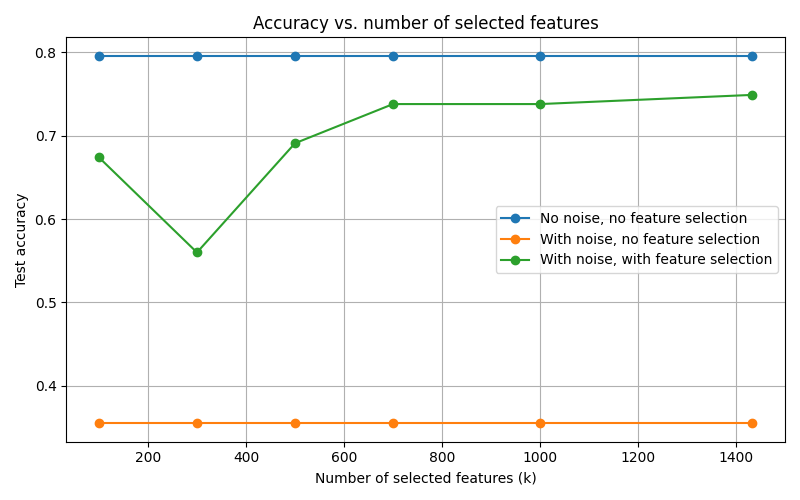
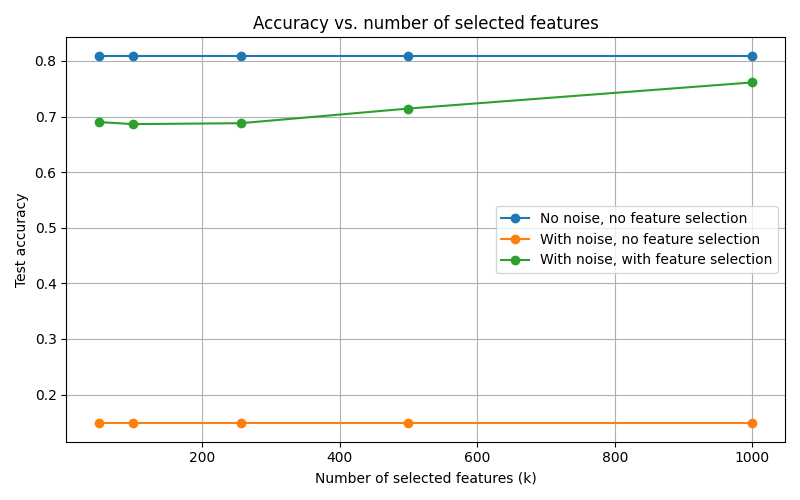
added accuracy vs k experiment and also standard deviations

diff --git a/src/main.py b/src/main.py
@@ -9,35 +9,51 @@ from experiments import (
 )
 from plotting import plot_method_accuracy_vs_noise, plot_accuracy_vs_k
 
-def save_results_to_csv(noise_type, noise_levels, results_by_method, filename):
+def save_results_to_csv(noise_type, noise_levels, results_by_method, std_by_method, filename):
     with open(filename, "w", newline="") as f:
         writer = csv.writer(f)
-        writer.writerow(["noise_type", "noise_level", "noise_percent", "method", "accuracy"])
+        writer.writerow(["noise_type", "noise_level", "noise_percent", "method", "accuracy_mean", "accuracy_std"])
 
         for method, accuracies in results_by_method.items():
-            for noise_level, accuracy in zip(noise_levels, accuracies):
-                writer.writerow([noise_type, noise_level, 100 * noise_level, method, accuracy])
+            for noise_level, accuracy, std in zip(noise_levels, accuracies, std_by_method[method]):
+                writer.writerow([noise_type, noise_level, 100 * noise_level, method, accuracy, std])
+
+def add_result(results_by_method, std_by_method, method, result):
+    mean, std = result
+    results_by_method[method].append(mean)
+    std_by_method[method].append(std)
 
 def run_noise_sweep(dataset, original_num_features, noise_levels, noise_type, seeds):
     results_by_method = {"No selection": [], "Raw l1": [], "Graph-aware l1": [], "Raw mutual_info": [], "Graph-aware mutual_info": [], "PCA": [], "Autoencoder": [], "Learned mask": []}
+    std_by_method = {"No selection": [], "Raw l1": [], "Graph-aware l1": [], "Raw mutual_info": [], "Graph-aware mutual_info": [], "PCA": [], "Autoencoder": [], "Learned mask": []}
 
-    if noise_type == "dense_junk":
-        k = original_num_features
-    else:
-        k = 500
+    k = 256
 
     for noise_ratio in noise_levels:
         print(f"Running noise_type={noise_type}, noise_ratio={noise_ratio}")
-        results_by_method["No selection"].append(run_no_selection_baseline_avg(dataset, noise_ratio=noise_ratio, noise_type=noise_type, seeds=seeds))
-        results_by_method["Raw l1"].append(run_preprocessing_selection_experiment_avg(dataset, noise_ratio=noise_ratio, noise_type=noise_type, k=k, selection_method="l1", graph_aware=False, seeds=seeds))
-        results_by_method["Graph-aware l1"].append(run_preprocessing_selection_experiment_avg(dataset, noise_ratio=noise_ratio, noise_type=noise_type, k=k, selection_method="l1", graph_aware=True, seeds=seeds))
-        results_by_method["Raw mutual_info"].append(run_preprocessing_selection_experiment_avg(dataset, noise_ratio=noise_ratio, noise_type=noise_type, k=k, selection_method="mutual_info", graph_aware=False, seeds=seeds))
-        results_by_method["Graph-aware mutual_info"].append(run_preprocessing_selection_experiment_avg(dataset, noise_ratio=noise_ratio, noise_type=noise_type, k=k, selection_method="mutual_info", graph_aware=True, seeds=seeds))
-        results_by_method["PCA"].append(run_pca_experiment_avg(dataset, noise_ratio=noise_ratio, noise_type=noise_type, n_components=256, seeds=seeds))
-        results_by_method["Autoencoder"].append(run_autoencoder_experiment_avg(dataset, noise_ratio=noise_ratio, noise_type=noise_type, latent_dim=256, seeds=seeds))
-        results_by_method["Learned mask"].append(run_learned_mask_experiment_avg(dataset, noise_ratio=noise_ratio, noise_type=noise_type, mask_lambda=0.0, k=k, seeds=seeds))
+        add_result(results_by_method, std_by_method, "No selection", run_no_selection_baseline_avg(dataset, noise_ratio=noise_ratio, noise_type=noise_type, seeds=seeds))
+        add_result(results_by_method, std_by_method, "Raw l1", run_preprocessing_selection_experiment_avg(dataset, noise_ratio=noise_ratio, noise_type=noise_type, k=k, selection_method="l1", graph_aware=False, seeds=seeds))
+        add_result(results_by_method, std_by_method, "Graph-aware l1", run_preprocessing_selection_experiment_avg(dataset, noise_ratio=noise_ratio, noise_type=noise_type, k=k, selection_method="l1", graph_aware=True, seeds=seeds))
+        add_result(results_by_method, std_by_method, "Raw mutual_info", run_preprocessing_selection_experiment_avg(dataset, noise_ratio=noise_ratio, noise_type=noise_type, k=k, selection_method="mutual_info", graph_aware=False, seeds=seeds))
+        add_result(results_by_method, std_by_method, "Graph-aware mutual_info", run_preprocessing_selection_experiment_avg(dataset, noise_ratio=noise_ratio, noise_type=noise_type, k=k, selection_method="mutual_info", graph_aware=True, seeds=seeds))
+        add_result(results_by_method, std_by_method, "PCA", run_pca_experiment_avg(dataset, noise_ratio=noise_ratio, noise_type=noise_type, n_components=256, seeds=seeds))
+        add_result(results_by_method, std_by_method, "Autoencoder", run_autoencoder_experiment_avg(dataset, noise_ratio=noise_ratio, noise_type=noise_type, latent_dim=256, seeds=seeds))
+        add_result(results_by_method, std_by_method, "Learned mask", run_learned_mask_experiment_avg(dataset, noise_ratio=noise_ratio, noise_type=noise_type, mask_lambda=0.0, k=k, seeds=seeds))
 
-    return results_by_method
+    return results_by_method, std_by_method
+
+def run_k_sweep(dataset, noise_type, noise_ratio, k_values, seeds):
+    clean_baseline_acc, _ = run_no_selection_baseline_avg(dataset, noise_ratio=0.0, noise_type=noise_type, seeds=seeds)
+    corrupted_baseline_acc, _ = run_no_selection_baseline_avg(dataset, noise_ratio=noise_ratio, noise_type=noise_type, seeds=seeds)
+
+    k_selection_acc = []
+
+    for k in k_values:
+        print(f"Running k sweep: noise_type={noise_type}, noise_ratio={noise_ratio}, k={k}")
+        acc, std = run_preprocessing_selection_experiment_avg(dataset, noise_ratio=noise_ratio, noise_type=noise_type, k=k, selection_method="l1", graph_aware=True, seeds=seeds)
+        k_selection_acc.append(acc)
+
+    return clean_baseline_acc, corrupted_baseline_acc, k_selection_acc
 
 def main():
     dataset = Planetoid(root="data/Planetoid", name="Cora")
@@ -53,14 +69,26 @@ def main():
     for noise_type, noise_levels in noise_configs.items():
         noise_percent = [100 * n for n in noise_levels]
 
-        results_by_method = run_noise_sweep(dataset, original_num_features, noise_levels, noise_type, seeds)
+        results_by_method, std_by_method = run_noise_sweep(dataset, original_num_features, noise_levels, noise_type, seeds)
 
         print("Noise type:", noise_type)
         print("Noise levels:", noise_levels)
         print(results_by_method)
-        save_results_to_csv(noise_type, noise_levels, results_by_method, filename=f"results_{noise_type}.csv")
+        print(std_by_method)
+        save_results_to_csv(noise_type, noise_levels, results_by_method, std_by_method, filename=f"results_{noise_type}.csv")
 
-        plot_method_accuracy_vs_noise(noise_percent, results_by_method, filename=f"accuracy_vs_{noise_type}.png", title=f"Accuracy vs. noise level ({noise_type})")
+        plot_method_accuracy_vs_noise(noise_percent, results_by_method, std_by_method=std_by_method, filename=f"accuracy_vs_{noise_type}.png", title=f"Accuracy vs. noise level ({noise_type})")
+
+    # accuracy vs k
+    k_values = [50, 100, 256, 500, 1000]
+    clean_baseline_acc, corrupted_baseline_acc, k_selection_acc = run_k_sweep(dataset, noise_type="dense_junk", noise_ratio=1.0, k_values=k_values, seeds=seeds)
+
+    plot_accuracy_vs_k(
+        k_values,
+        clean_baseline_acc,
+        corrupted_baseline_acc,
+        k_selection_acc,
+    )
 
 if __name__ == "__main__":
     main()

diff --git a/src/experiments.py b/src/experiments.py
@@ -10,6 +10,9 @@ from autoencoder import BetterDenoisingAutoencoder, train_autoencoder, encode_fe
 from pca import apply_pca
 from masked_gnn import MaskedGCN
 
+def mean_std(accuracies):
+    return float(np.mean(accuracies)), float(np.std(accuracies))
+
 def run_no_selection_baseline(dataset, noise_ratio=1.0, noise_type="dense_junk", seed=42):
     torch.manual_seed(seed)
     np.random.seed(seed)
@@ -43,7 +46,7 @@ def run_no_selection_baseline_avg(dataset, noise_ratio=1.0, noise_type="dense_ju
         )
         accuracies.append(acc)
 
-    return float(np.mean(accuracies))
+    return mean_std(accuracies)
 
 def get_selection_fn(selection_method):
     if selection_method == "l1":
@@ -53,7 +56,7 @@ def get_selection_fn(selection_method):
 
     raise ValueError(f"Unknown selection method: {selection_method}")
 
-def run_preprocessing_selection_experiment(dataset,noise_ratio=1.0,noise_type="dense_junk",k=None,selection_method="l1",graph_aware=True,seed=42):
+def run_preprocessing_selection_experiment(dataset, noise_ratio=1.0, noise_type="dense_junk", k=None, selection_method="l1", graph_aware=True, seed=42):
     torch.manual_seed(seed)
     np.random.seed(seed)
 
@@ -86,8 +89,7 @@ def run_preprocessing_selection_experiment(dataset,noise_ratio=1.0,noise_type="d
     accuracy = test(model, graph)
     return accuracy
 
-
-def run_preprocessing_selection_experiment_avg(dataset,noise_ratio=1.0,noise_type="dense_junk",k=None,selection_method="l1",graph_aware=True,seeds=None):
+def run_preprocessing_selection_experiment_avg(dataset, noise_ratio=1.0, noise_type="dense_junk", k=None, selection_method="l1", graph_aware=True, seeds=None):
     if seeds is None:
         seeds = [0, 1, 2, 3, 4]
 
@@ -104,7 +106,7 @@ def run_preprocessing_selection_experiment_avg(dataset,noise_ratio=1.0,noise_typ
         )
         accuracies.append(acc)
 
-    return float(np.mean(accuracies))
+    return mean_std(accuracies)
 
 def run_autoencoder_experiment(
     dataset,
@@ -189,7 +191,7 @@ def run_autoencoder_experiment_avg(
         )
         accuracies.append(acc)
 
-    return float(np.mean(accuracies))
+    return mean_std(accuracies)
 
 def run_pca_experiment(dataset, noise_ratio=1.0, noise_type="dense_junk", n_components=64, seed=42):
     torch.manual_seed(seed)
@@ -209,7 +211,7 @@ def run_pca_experiment(dataset, noise_ratio=1.0, noise_type="dense_junk", n_comp
     accuracy = test(model, graph)
     return accuracy
 
-def run_pca_experiment_avg(dataset, noise_ratio=1.0, noise_type="dense_junk", n_components=64,seeds=None):
+def run_pca_experiment_avg(dataset, noise_ratio=1.0, noise_type="dense_junk", n_components=64, seeds=None):
     if seeds is None:
         seeds = [0, 1, 2, 3, 4]
 
@@ -224,7 +226,7 @@ def run_pca_experiment_avg(dataset, noise_ratio=1.0, noise_type="dense_junk", n_
         )
         accuracies.append(acc)
 
-    return float(np.mean(accuracies))
+    return mean_std(accuracies)
 
 def run_learned_mask_experiment(dataset, noise_ratio=1.0, noise_type="dense_junk", mask_lambda=0.0, k=None, seed=42):
     torch.manual_seed(seed)
@@ -276,4 +278,4 @@ def run_learned_mask_experiment_avg(dataset, noise_ratio=1.0, noise_type="dense_
         )
         accuracies.append(acc)
 
-    return float(np.mean(accuracies))
+    return mean_std(accuracies)

diff --git a/src/plotting.py b/src/plotting.py
@@ -1,10 +1,13 @@
 # Functions for plotting results
 import matplotlib.pyplot as plt
 
-def plot_method_accuracy_vs_noise(noise_percent, results_by_method, filename="accuracy_vs_noise_all_methods.png", title="Accuracy vs. noise level"):
+def plot_method_accuracy_vs_noise(noise_percent, results_by_method, std_by_method=None, filename="accuracy_vs_noise_all_methods.png", title="Accuracy vs. noise level"):
     plt.figure(figsize=(10, 6))
     for method_name, accuracies in results_by_method.items():
-        plt.plot(noise_percent, accuracies, marker="o", label=method_name)
+        if std_by_method is None:
+            plt.plot(noise_percent, accuracies, marker="o", label=method_name)
+        else:
+            plt.errorbar(noise_percent, accuracies, yerr=std_by_method[method_name], marker="o", capsize=3, label=method_name)
     plt.xlabel("Noise level (%)")
     plt.ylabel("Test accuracy")
     plt.title(title)
